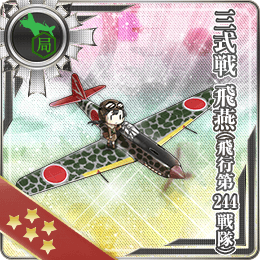
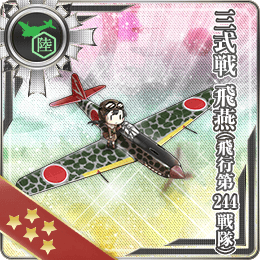
update type

Changed region(s): [[0.0615, 0.0308, 0.2154, 0.2462], [0.4, 0.4615, 0.4308, 0.4923], [0.0, 0.5846, 0.0308, 0.6154]]

diff --git a/index.html b/index.html
@@ -67,7 +67,7 @@
       <li class='static'>改修不可</li>
       <li id='allNoRemodel' onclick="filterType('');">全て</li>
       <li id='torpedoBomber' onclick="filterType('torpedoBomber');"><i class='torpedoBomber'></i><span>攻撃機</span></li>
-      <li id='landbasedAircraft' onclick="filterType('landbasedAircraft');"><i class='landbasedAircraft'></i><span>陸攻<ah2><br>局戦</ah2></span></li>
+      <li id='landbasedAircraft' onclick="filterType('landbasedAircraft');"><i class='landbasedAircraft'></i><span>陸攻<ah2><br>陸戦</ah2></span></li>
       <li id='seaplaneBomber' onclick="filterType('seaplaneBomber');"><i class='seaplaneBomber'></i><span>瑞雲</span></li>
       <li id='antiSubmarine' onclick="filterType('antiSubmarine');"><i class='antiSubmarine'></i><span><ah2>大型飛行艇<br></ah2>哨戒機</span></li>
       <li id='dmc' onclick="filterType('dmc');"><i class='dmc'></i><span>修理<ah2>要員</ah2></span></li>

diff --git a/detail/w177.html b/detail/w177.html
@@ -1,4 +1,4 @@
-<div class='name jpfont'><span class='no'>No.177 </span> 局地戦闘機 <span class='title'>三式戦 飛燕(飛行第244戦隊)</span> <a target='_blank' href='http://wikiwiki.jp/kancolle/?%BB%B0%BC%B0%C0%EF%20%C8%F4%B1%ED%28%C8%F4%B9%D4%C2%E8244%C0%EF%C2%E2%29'>Wiki</a>  <a target='_blank' href='http://kancolle.wikia.com/wiki/Type_3_Fighter_Hien_%28244th_Air_Combat_Group%29'>Wikia</a></div>
+<div class='name jpfont'><span class='no'>No.177 </span> 陸軍戦闘機 <span class='title'>三式戦 飛燕(飛行第244戦隊)</span> <a target='_blank' href='http://wikiwiki.jp/kancolle/?%BB%B0%BC%B0%C0%EF%20%C8%F4%B1%ED%28%C8%F4%B9%D4%C2%E8244%C0%EF%C2%E2%29'>Wiki</a>  <a target='_blank' href='http://kancolle.wikia.com/wiki/Type_3_Fighter_Hien_%28244th_Air_Combat_Group%29'>Wikia</a></div>
 <div class='margin-section'></div>
 
 

diff --git a/detail/w185.html b/detail/w185.html
@@ -1,4 +1,4 @@
-<div class='name jpfont'><span class='no'>No.185 </span> 局地戦闘機 <span class='title'>三式戦 飛燕一型丁</span> <a target='_blank' href='http://wikiwiki.jp/kancolle/?%BB%B0%BC%B0%C0%EF%20%C8%F4%B1%ED%B0%EC%B7%BF%C3%FA'>Wiki</a>  <a target='_blank' href='http://kancolle.wikia.com/wiki/Type_3_Fighter_Hien_Model_1D'>Wikia</a></div>
+<div class='name jpfont'><span class='no'>No.185 </span> 陸軍戦闘機 <span class='title'>三式戦 飛燕一型丁</span> <a target='_blank' href='http://wikiwiki.jp/kancolle/?%BB%B0%BC%B0%C0%EF%20%C8%F4%B1%ED%B0%EC%B7%BF%C3%FA'>Wiki</a>  <a target='_blank' href='http://kancolle.wikia.com/wiki/Type_3_Fighter_Hien_Model_1D'>Wikia</a></div>
 <div class='margin-section'></div>
 
 

diff --git a/detail/w176.html b/detail/w176.html
@@ -1,4 +1,4 @@
-<div class='name jpfont'><span class='no'>No.176 </span> 局地戦闘機 <span class='title'>三式戦 飛燕</span> <a target='_blank' href='http://wikiwiki.jp/kancolle/?%BB%B0%BC%B0%C0%EF%20%C8%F4%B1%ED'>Wiki</a>  <a target='_blank' href='http://kancolle.wikia.com/wiki/Type_3_Fighter_Hien'>Wikia</a></div>
+<div class='name jpfont'><span class='no'>No.176 </span> 陸軍戦闘機 <span class='title'>三式戦 飛燕</span> <a target='_blank' href='http://wikiwiki.jp/kancolle/?%BB%B0%BC%B0%C0%EF%20%C8%F4%B1%ED'>Wiki</a>  <a target='_blank' href='http://kancolle.wikia.com/wiki/Type_3_Fighter_Hien'>Wikia</a></div>
 <div class='margin-section'></div>
 
 
